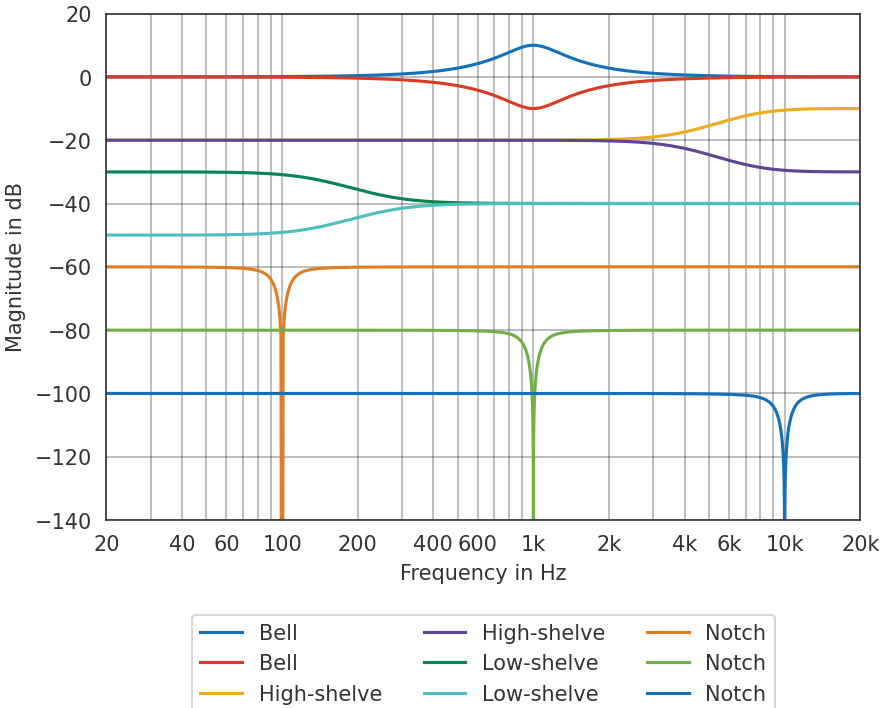
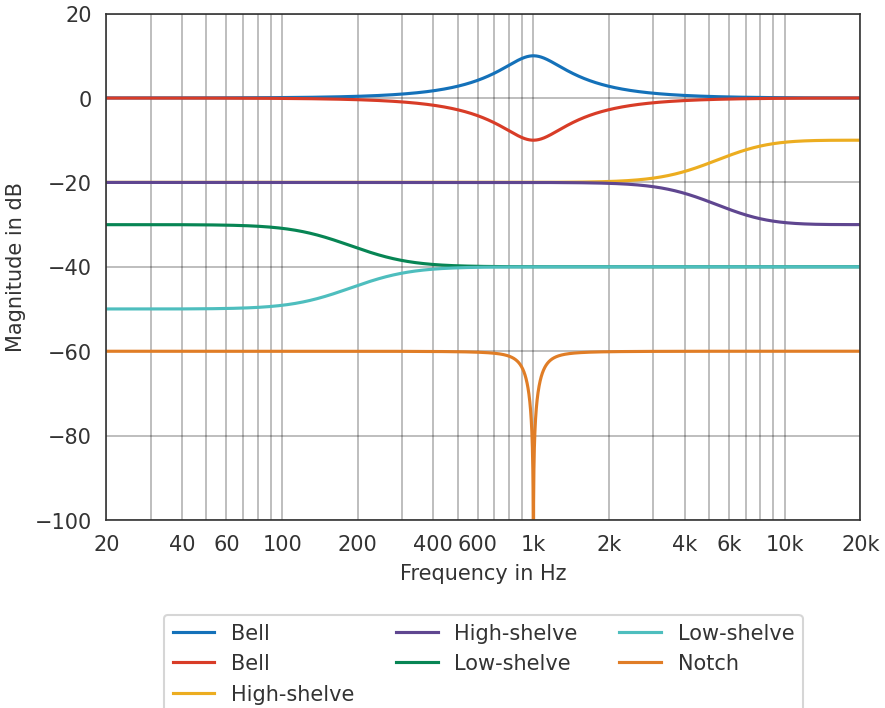
changes suggested by sikersten

diff --git a/docs/concepts/resources/filter_types.py b/docs/concepts/resources/filter_types.py
@@ -185,18 +185,12 @@ y = pf.dsp.filter.low_shelve(impulse, 1/4*frequency, -10, 2, 'II')
 pf.plot.freq(y * 10**(-40/20), ax=axis, label='Low-shelve')
 
 # notch filter
-y = pf.dsp.filter.notch(impulse * .1**3, 100, 4)
-pf.plot.freq(y, ax=axis, label='Notch')
-
-y = pf.dsp.filter.notch(impulse * .1**4, 1000, 4)
-pf.plot.freq(y, ax=axis, label='Notch')
-
-y = pf.dsp.filter.notch(impulse * .1**5, 10000, 4)
+y = pf.dsp.filter.notch(impulse * .1**3, 1000, 4)
 pf.plot.freq(y, ax=axis, label='Notch')
 
 axis.set_title('')
 axis.set_xlim(20, 20e3)
-axis.set_ylim(-140, 20)
+axis.set_ylim(-100, 20)
 axis.legend(loc='lower center', ncol=3, bbox_to_anchor=(.5, -.4))
 
 plt.savefig('filter_types_audio_filter_1.png', dpi=150)
@@ -207,24 +201,20 @@ _, ax = plt.subplots(1, 1, figsize=(15/2.54, 8/2.54), sharey=True)
 # shelve cascades
 axis = ax
 gain = 10
-y, _, ideal = pf.dsp.filter.high_shelve_cascade(
+y, *_ = pf.dsp.filter.high_shelve_cascade(
     impulse, 125, 'lower', gain, None, 5)
-# pf.plot.freq(ideal, c=[0, 0, 0, .5], ax=axis, ls="--", label="Ideal response")
 pf.plot.freq(y, ax=axis, label="High-shelve cascade")
 
-y, _, ideal = pf.dsp.filter.high_shelve_cascade(
+y, *_ = pf.dsp.filter.high_shelve_cascade(
     impulse, 125, 'lower', -gain, None, 5)
-# pf.plot.freq(ideal, c=[0, 0, 0, .5], ax=axis, ls="--")
 pf.plot.freq(y, ax=axis, label="High-shelve cascade")
 
-y, _, ideal = pf.dsp.filter.low_shelve_cascade(
+y, *_ = pf.dsp.filter.low_shelve_cascade(
     impulse, 125, 'lower', gain, None, 5)
-# pf.plot.freq(ideal*.01, c=[0, 0, 0, .5], ax=axis, ls="--")
 pf.plot.freq(y*.01, ax=axis, label="Low-shelve cascade")
 
-y, _, ideal = pf.dsp.filter.low_shelve_cascade(
+y, *_ = pf.dsp.filter.low_shelve_cascade(
     impulse, 125, 'lower', -gain, None, 5)
-# pf.plot.freq(ideal*.01, c=[0, 0, 0, .5], ax=axis, ls="--")
 pf.plot.freq(y*.01, ax=axis, label="Low-shelve cascade")
 
 axis.set_title('')

diff --git a/pyfar/dsp/filter/band_filter.py b/pyfar/dsp/filter/band_filter.py
@@ -471,7 +471,7 @@ def notch(signal, center_frequency, quality, sampling_rate=None):
     quality : number
         The quality is defined at the -3 dB points around the
         `center_frequency` and is the inverse band width in octaves relative
-        to the `center_frequency`
+        to the `center_frequency`.
     sampling_rate : None, number
         The sampling rate in Hz. Only required if `signal` is ``None``. The
         default is ``None``.
